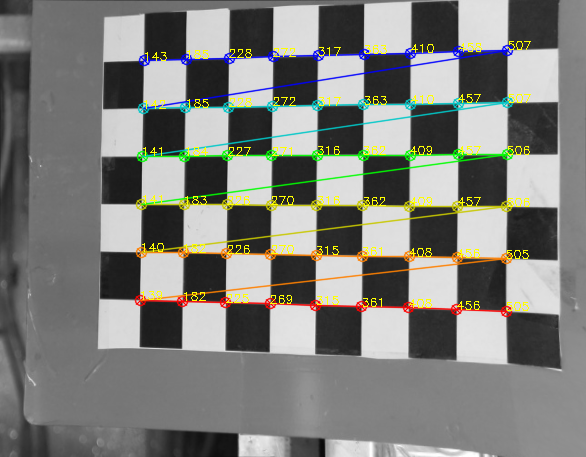
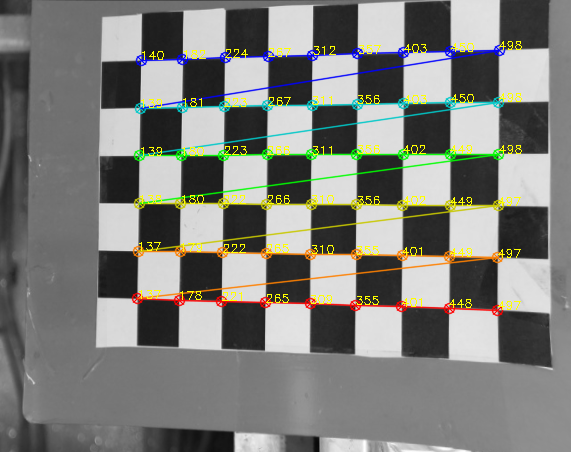
diplib

diff --git a/PixelPerRatio.py b/PixelPerRatio.py
@@ -1,0 +1,99 @@
+import cv2
+import matplotlib.pyplot as plt
+import numpy as np
+
+path = 'SavedImages/saved_frame_0.png'
+
+
+def TextonImage(path_image='SavedImages/saved_frame_5.png'):
+
+    img = cv2.imread(path_image)
+    img = cv2.resize(img,(238,353))
+    gray = cv2.cvtColor(img, cv2.COLOR_BGR2GRAY)
+
+    # Find the chess board corners
+    criteria = (cv2.TERM_CRITERIA_EPS + cv2.TERM_CRITERIA_MAX_ITER, 30, 0.001)
+    ret, corners = cv2.findChessboardCorners(gray, (9, 6), None)
+
+    imgpoints_one, objpoints_one = [], []
+
+    # If found, add object points, image points (after refining them)
+    objp = np.zeros((6 * 9, 3), np.float32)
+    objp[:, :2] = np.mgrid[0:9, 0:6].T.reshape(-1, 2)
+
+    x, y = [],[]
+    if ret == True:
+        objpoints_one.append(objp)
+        corners2 = cv2.cornerSubPix(gray, corners, (11, 11), (-1, -1), criteria)
+
+        print(corners2)
+        # print(corners2)
+        imgpoints_one.append(corners2)
+        # Draw and display the corners
+
+        img = cv2.drawChessboardCorners(img, (9, 6), corners2, ret)
+
+        for i in corners2:
+            for j in corners2:
+                for k in range(0, len(j)):
+
+                    cv2.putText(img, "{}".format(int(j[k][1])),
+                                (int(j[k][0]), int(j[k][1])),
+                                cv2.FONT_HERSHEY_SIMPLEX, 0.4, (0, 125, 255), 1
+                                )
+        cv2.imshow('img', img)
+        cv2.waitKey()
+
+
+
+        # cv2.imshow('img', img)
+        # cv2.waitKey(0)
+        cv2.imwrite('chessboardcorners_resized.png', img)
+
+        return x,y
+
+# x,y = TextonImage()
+
+
+import cv2
+
+image = cv2.imread('ruler1.png')
+image = cv2.resize(image,(238,353))
+print(image.shape)
+gray = cv2.cvtColor(image, cv2.COLOR_BGR2GRAY)
+canny = cv2.Canny(gray, 130, 255, 1)
+
+cnts = cv2.findContours(canny, cv2.RETR_TREE, cv2.CHAIN_APPROX_SIMPLE)
+cnts = cnts[0] if len(cnts) == 2 else cnts[1]
+
+for c in cnts:
+    cv2.drawContours(image,[c], 0, (0,255,0), 1)
+
+cv2.imshow("result", image)
+cv2.imwrite('result.png',image)
+cv2.waitKey(0)
+
+a = []
+b = []
+
+img = cv2.imread('ruler1.png')
+img = cv2.resize(img,(238,353))
+
+print(img.shape)
+def on_EVENT_LBUTTONDOWN(event, x, y, flags, param):
+    if event == cv2.EVENT_LBUTTONDOWN:
+        xy = "%d,%d" % (x, y)
+        a.append(x)
+        b.append(y)
+        cv2.circle(img, (x, y), 1, (0, 0, 255), thickness=-1)
+        cv2.putText(img, xy, (x, y), cv2.FONT_HERSHEY_PLAIN,
+                    1.0, (0, 0, 0), thickness=1)
+        cv2.imshow("image", img)
+
+
+cv2.namedWindow("image")
+cv2.setMouseCallback("image", on_EVENT_LBUTTONDOWN)
+cv2.imshow("image", img)
+cv2.waitKey(0)
+
+

diff --git a/diplib.py b/diplib.py
@@ -1,0 +1,34 @@
+import PyDIP as dip
+import math
+
+# Load image and set pixel size
+img = dip.ImageReadTIFF('/home/cris/tmp/machined_piece.tif')
+img.SetPixelSize(dip.PixelSize(0.042 * dip.Units("mm")))
+
+# Extract object
+obj = ~dip.Threshold(dip.Gauss(img))[0]
+obj = dip.EdgeObjectsRemove(obj)
+
+# Remove noise
+obj = dip.Opening(dip.Closing(obj,9),9)
+
+# Measure object area
+lab = dip.Label(obj)
+msr = dip.MeasurementTool.Measure(lab,img,['Size'])
+objectArea = msr[1]['Size'][0]
+
+# Measure holes
+obj = dip.EdgeObjectsRemove(~obj)
+lab = dip.Label(obj)
+msr = dip.MeasurementTool.Measure(lab,img,['Size'])
+sz = msr['Size']
+holeAreas = []
+for ii in sz.Objects():
+   holeAreas.append(sz[ii][0])
+
+# Add hole areas to main object area
+objectArea += sum(holeAreas)
+
+print('Object diameter = %f mm' % (2 * math.sqrt(objectArea / math.pi)))
+for a in holeAreas:
+   print('Hole diameter = %f mm' % (2 * math.sqrt(a / math.pi)))

diff --git a/Calibration.py b/Calibration.py
@@ -163,6 +163,7 @@ def undistort ( path, storage_file =0 ):
 def TextonImage ( path_image ):
 
     img = cv2.imread(path_image)
+
     gray = cv2.cvtColor(img, cv2.COLOR_BGR2GRAY)
 
     # Find the chess board corners
